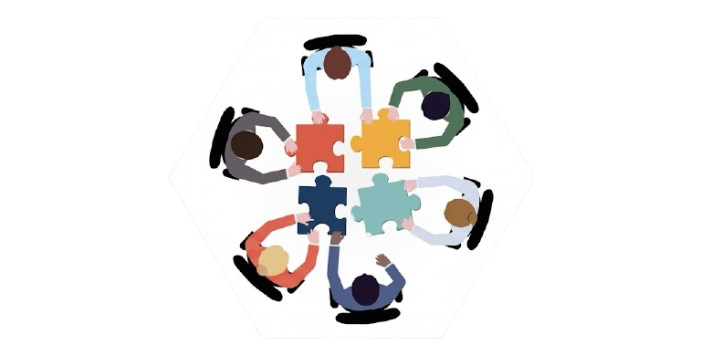
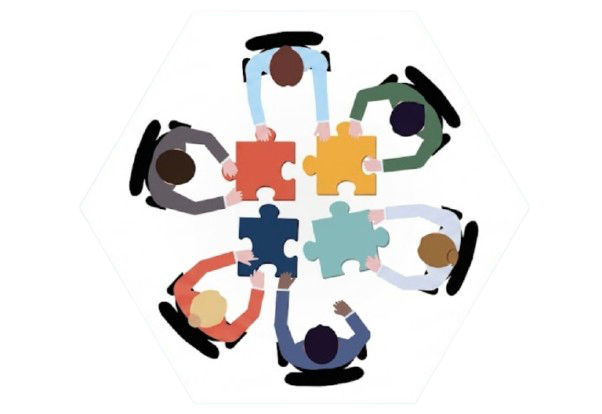
- Added CSS for the image and the texts in member contributions of about.html - Change the size of the description image

Changed region(s): [[0.2093, 0.0618, 0.8073, 0.9579]]

diff --git a/about.html b/about.html
@@ -69,18 +69,18 @@
                 
                 <div class="individual-tasks">
                 <p id="about-titles"> <strong> Member Contributions </strong> </p>
-                <p> 🖌 Individual Responsibilities: </p>
+                <p style="font-size: 50px; color:blue; margin-bottom: 0px;"> <strong> 🖌 Individual Responsibilities: </strong> </p>
                 <dl>
-                    <dt> 📌 Tuan Dat Quach </dt>
+                    <dt id="member-name"> 📌 Tuan Dat Quach </dt>
                         <dd> - Main content for index.html and about.html </dd>
                         <dd> - General CSS for pages </dd>
-                    <dt> 📌 Ravindu Nethsara </dt>
+                    <dt id="member-name"> 📌 Ravindu Nethsara </dt>
                         <dd> - Main content for jobs.html </dd>
-                    <dt> 📌 Johnathan Mey </dt>
+                    <dt id="member-name"> 📌 Johnathan Mey </dt>
                         <dd> - Main content for apply.html </dd>
                         <dd> - Assignment Submission</dd>
                     <br>
-                    <dt> 🤝 Shared Responsibilities: </dt> <br>
+                    <dt style="font-size: 50px; color: blue;"> <strong> 🤝 Shared Responsibilities: </strong> </dt> <br>
                         <dd> - CSS Style for each individual page </dd>
                         <dd> - Suggesting ideas </dd>
                         <dd> - Re-evaluation and finalisation </dd>

diff --git a/styles/styles.css b/styles/styles.css
@@ -286,12 +286,18 @@ footer p a:hover {
 }
 
 .contribution-image img{
-    max-width: 95%;
+    width: 100%;
+    height: auto;
 }
 
 .individual-tasks {
     display: grid;
     grid-template-columns: 1fr;
-    font-size: 50px;
-    margin: 0px 40px 100px 100px;
+    font-size: 40px;
+    margin: 0px 40px 100px 50px;
+}
+
+#member-name {
+    margin-top: 15px;
+    font-weight: bold;
 }
